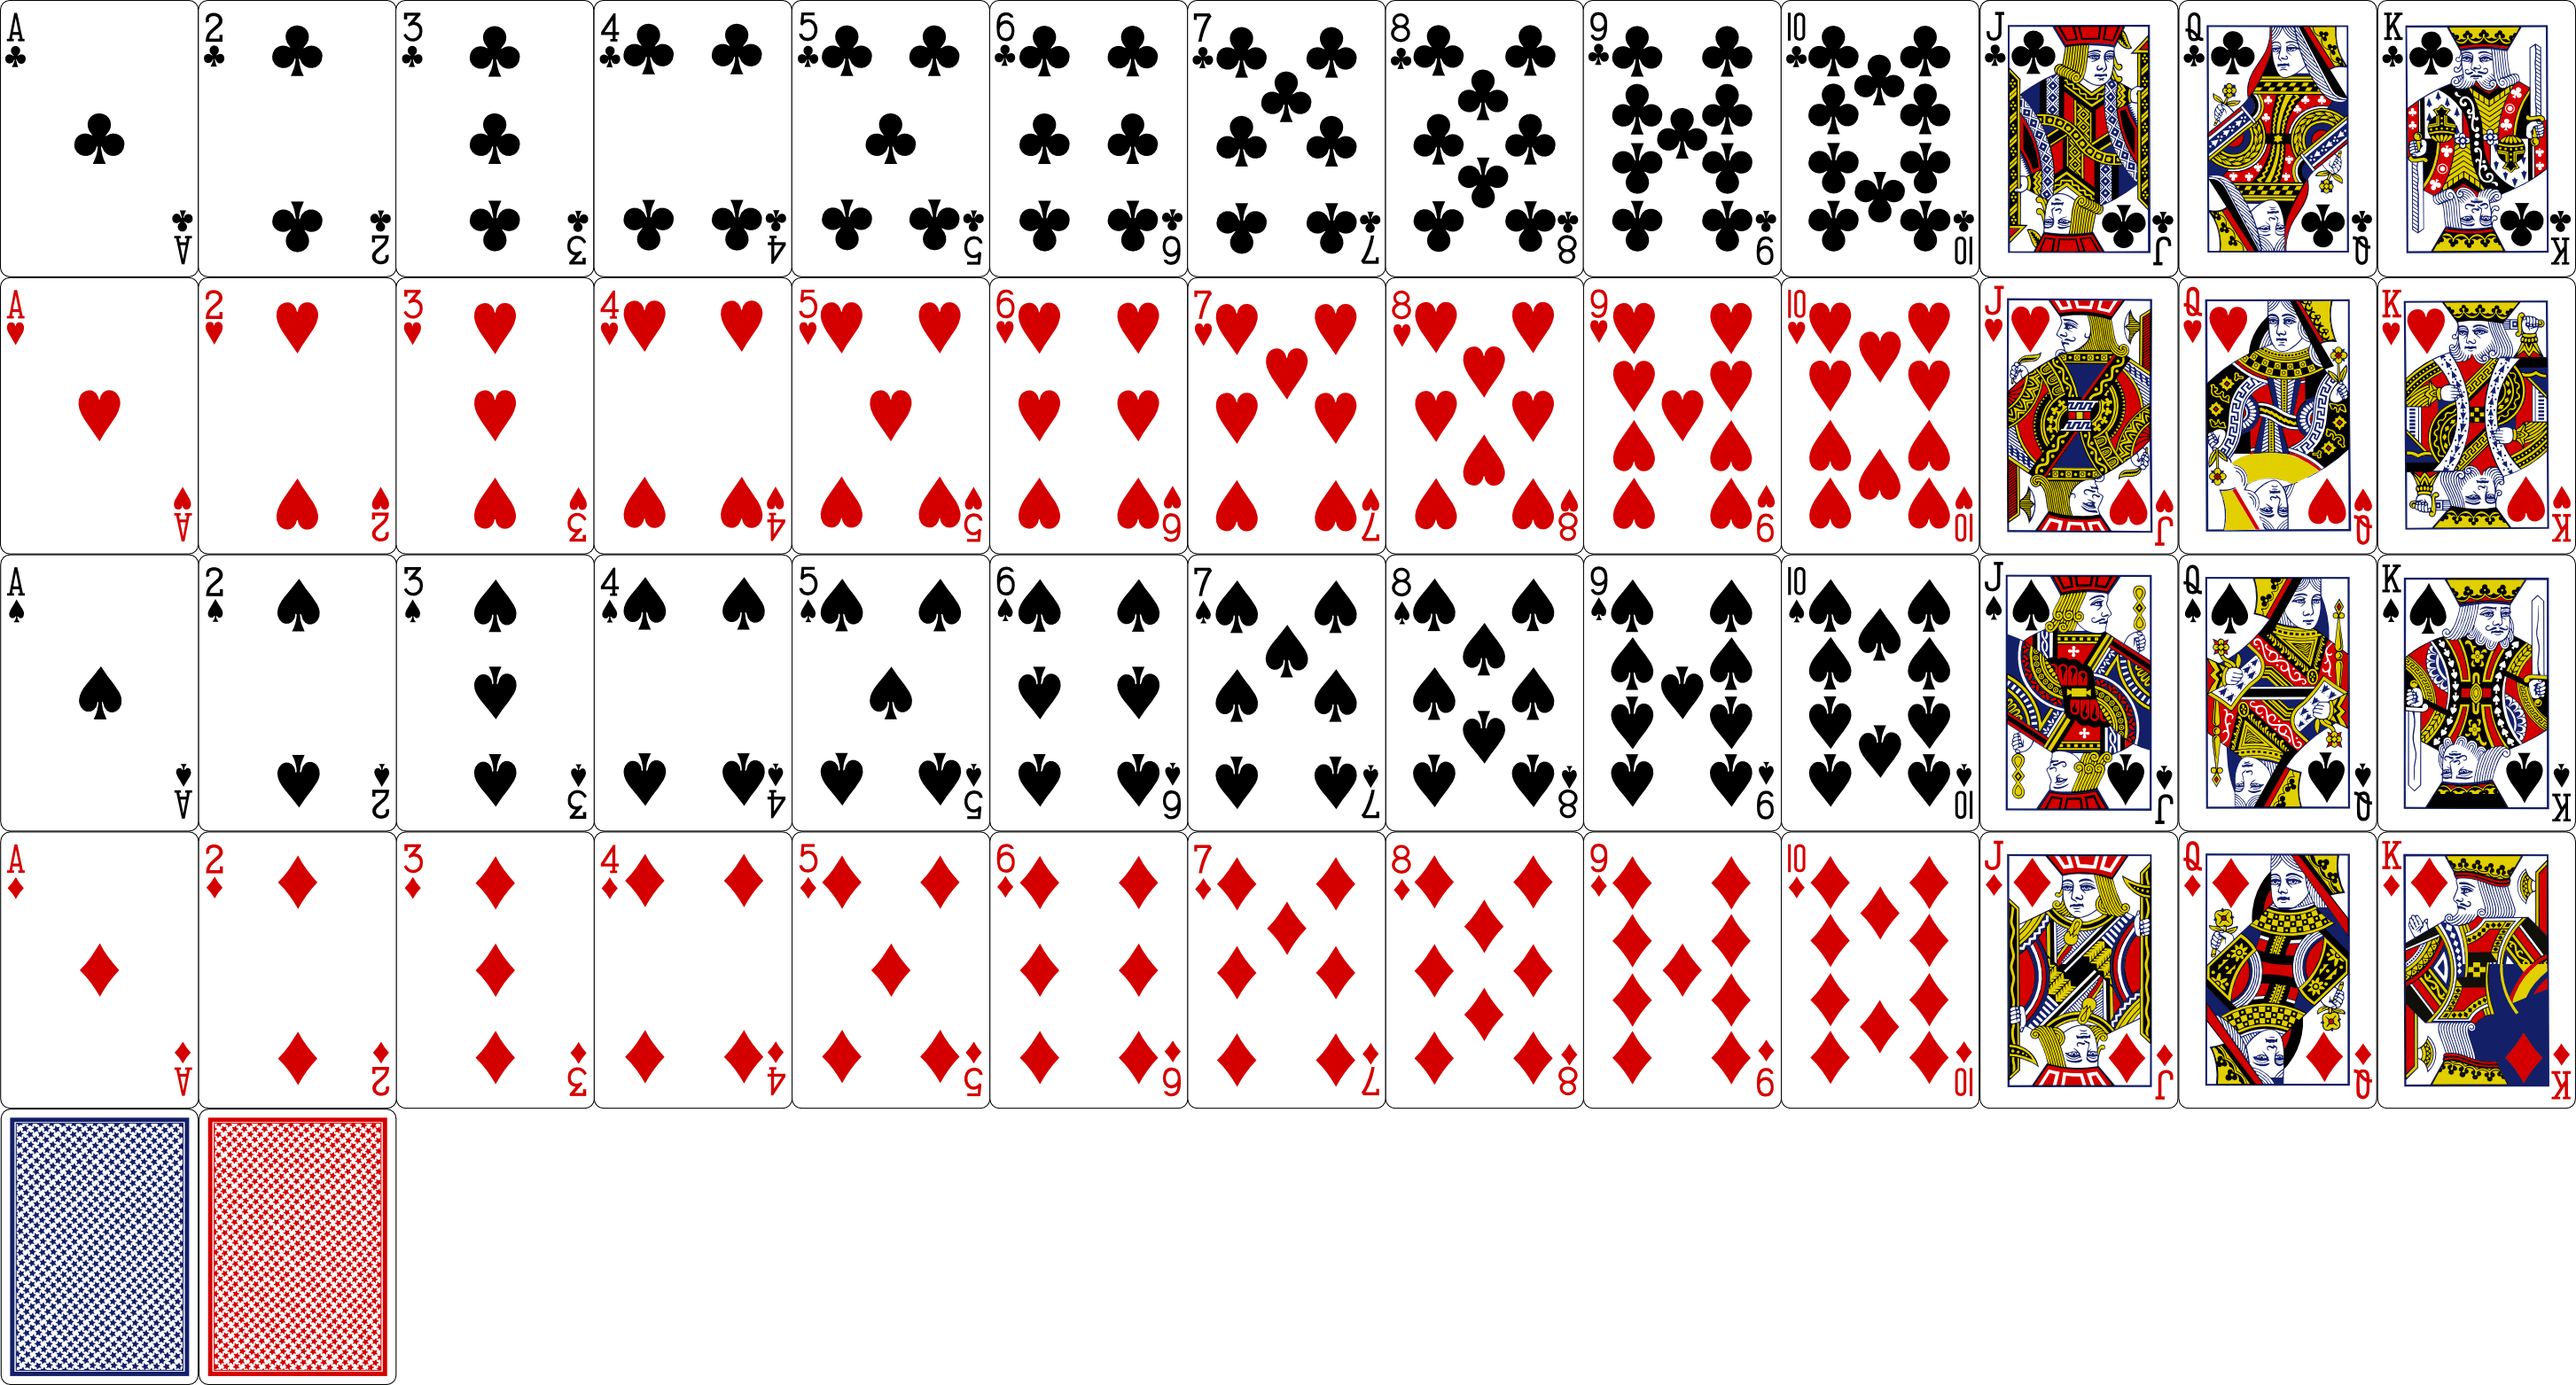
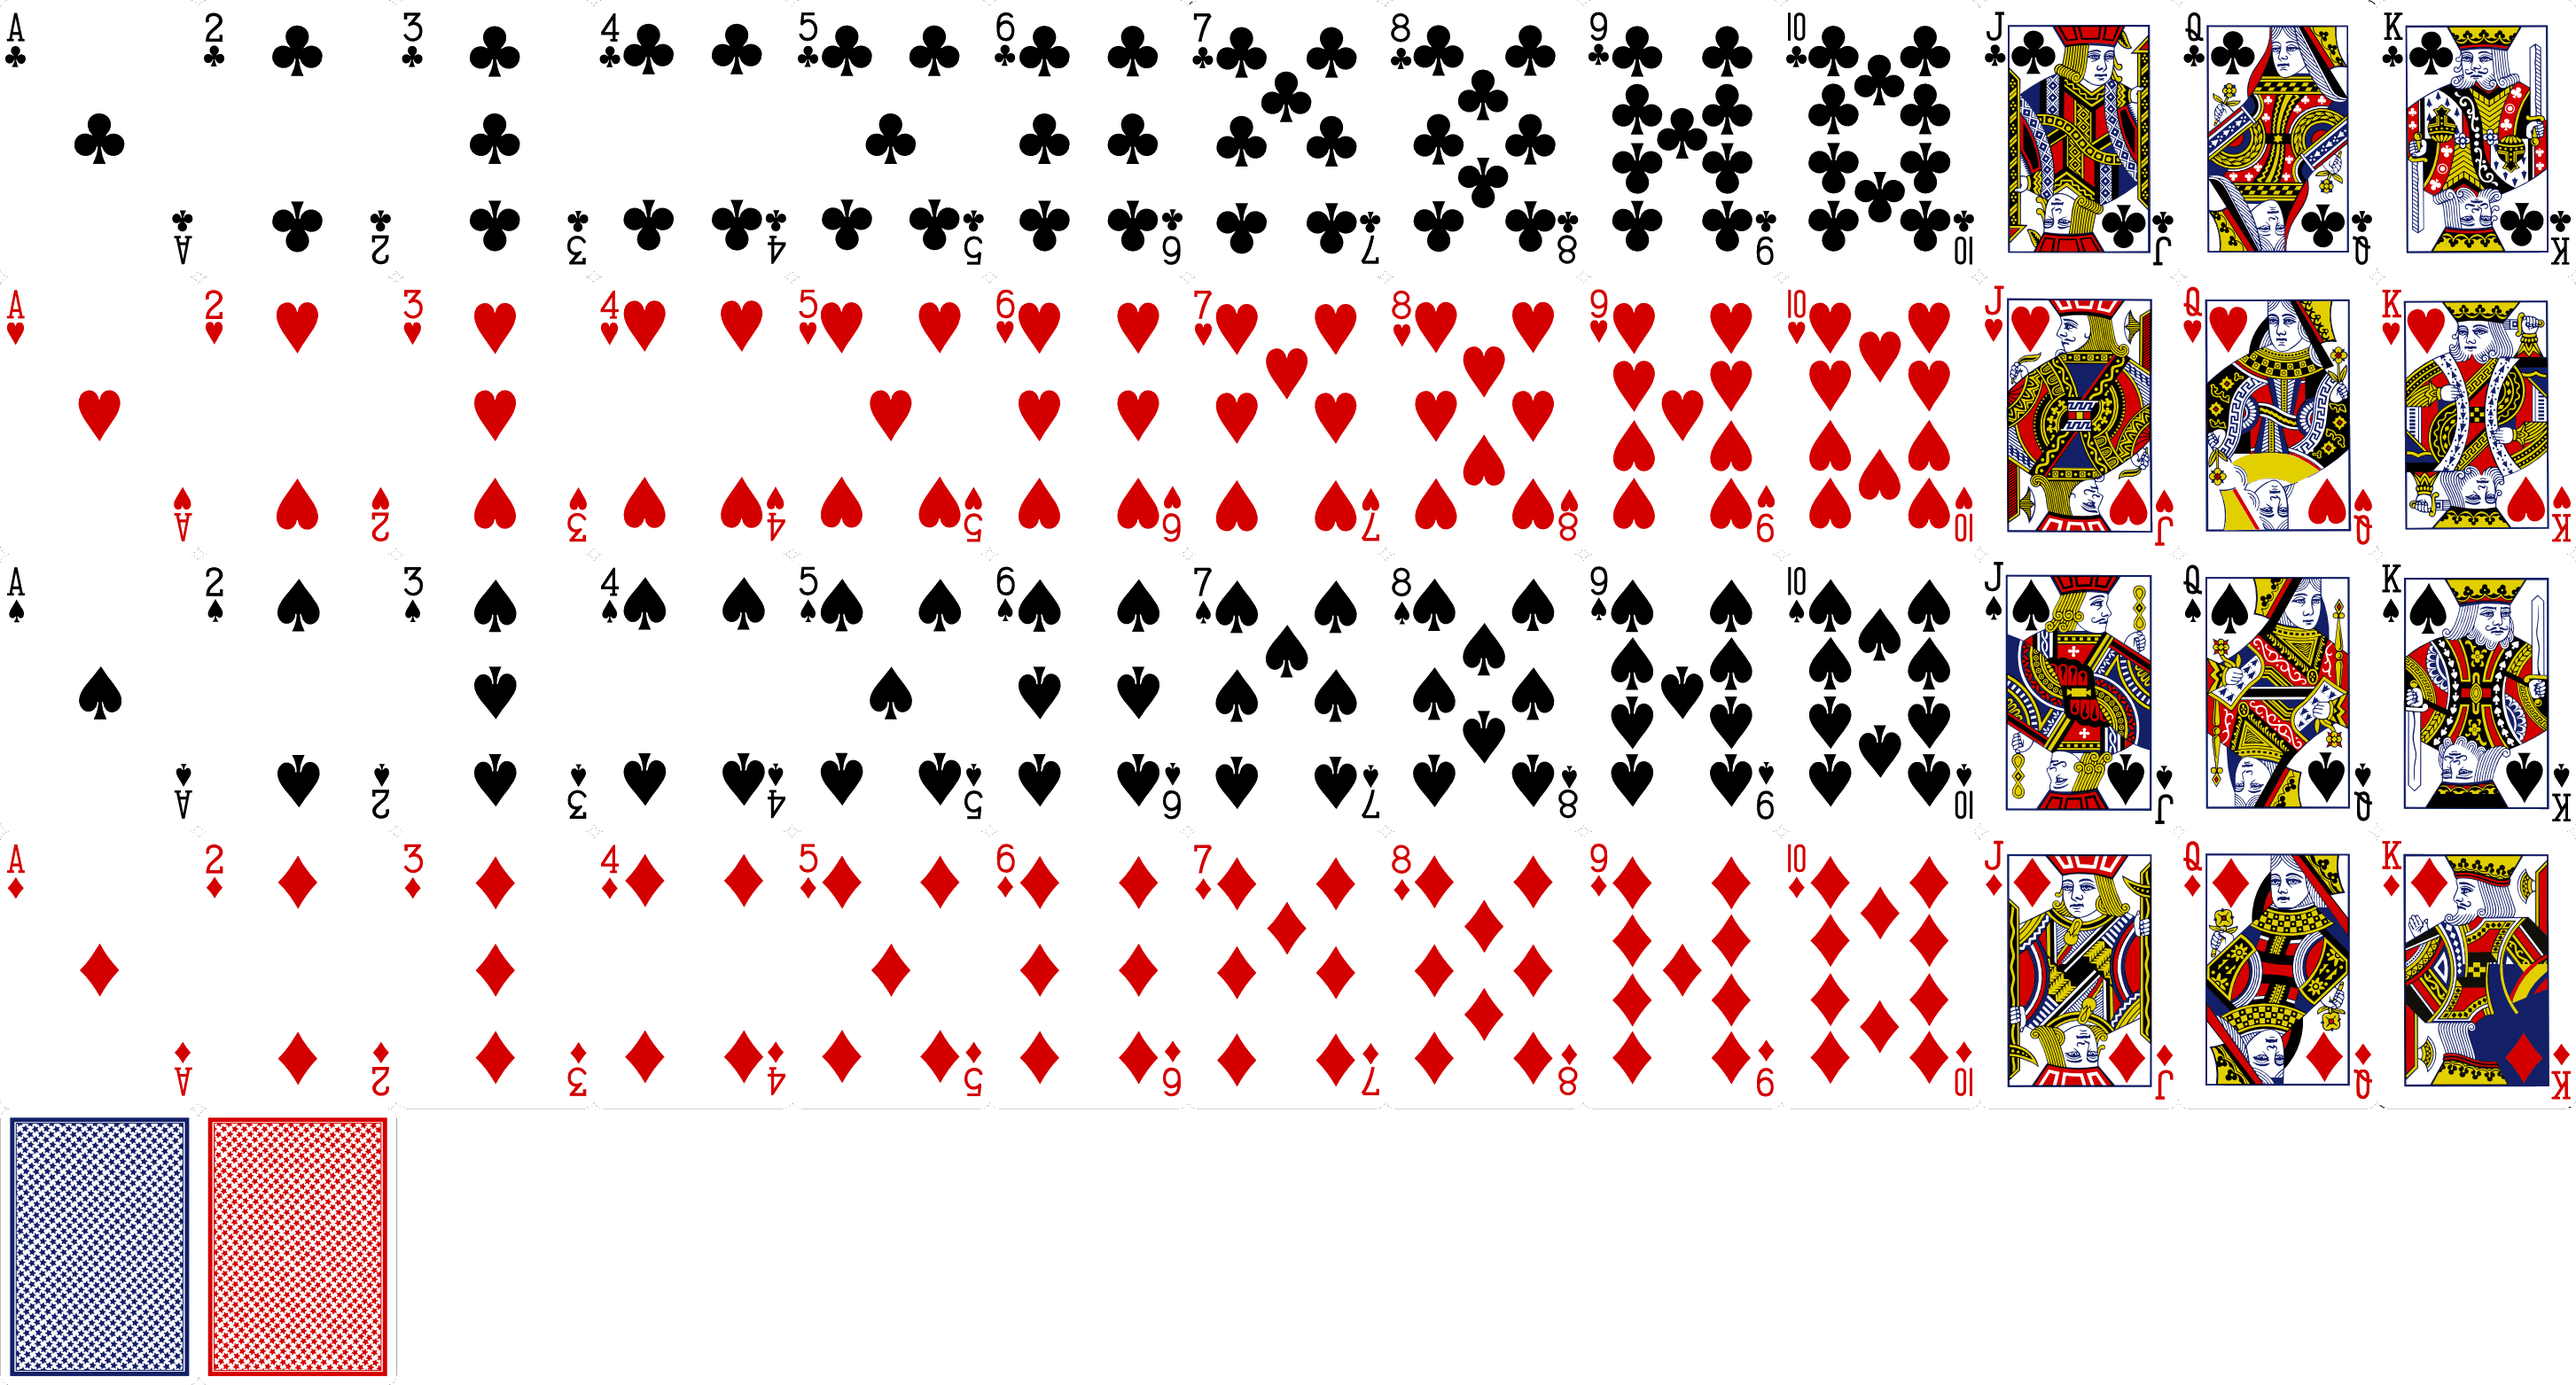
Removed borders from card images. This allowed me to make the card's overlayed border to be thinner. Cards seem more lite-weight now.

diff --git a/scripts/spider/fSpider.card.js b/scripts/spider/fSpider.card.js
@@ -38,7 +38,7 @@ fSpider.Card = (function (Card, Kinetic, undefined) {
     Card.prototype.borderProps = {
         'visible': true,
         'stroke': '#F5F5F5',
-        'strokeWidth': 2,
+        'strokeWidth': 1.5,
         'cornerRadius': 3.5,
         'fill': '',
         'opacity': 1,
